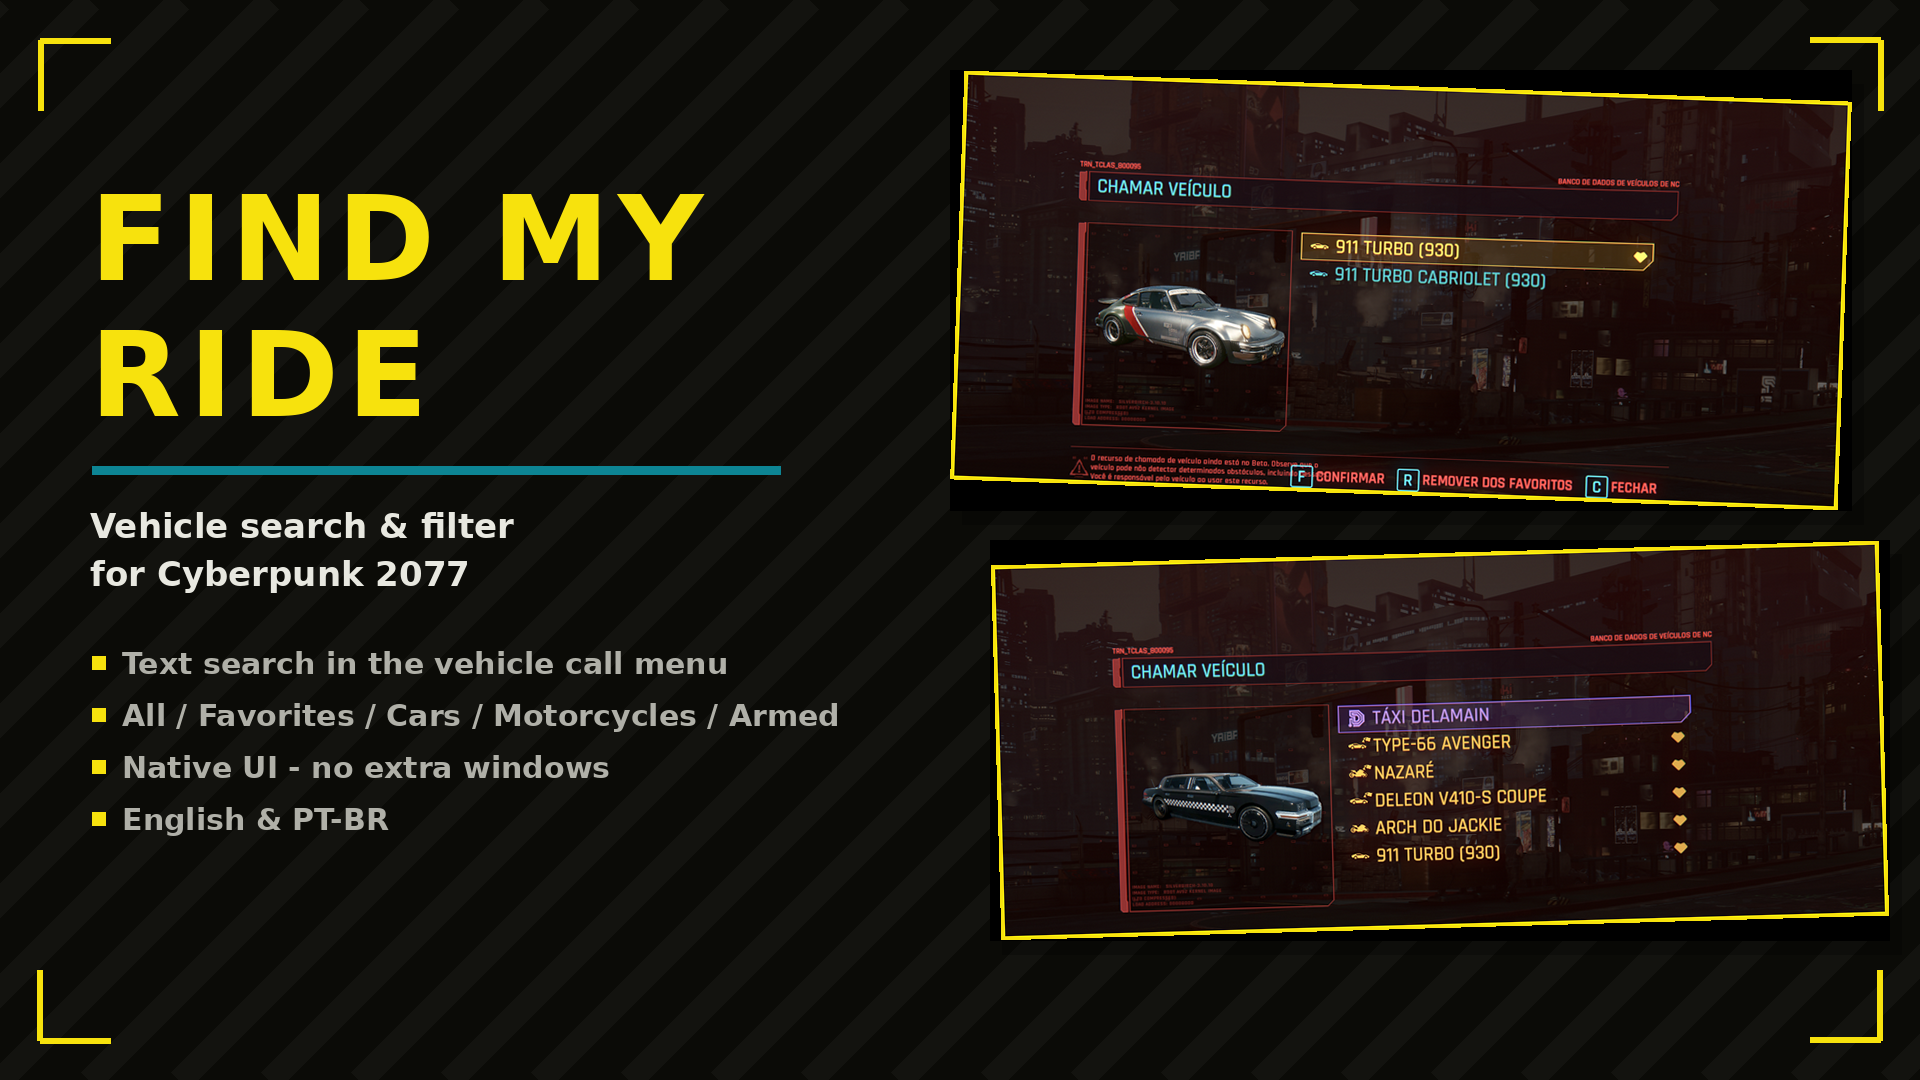
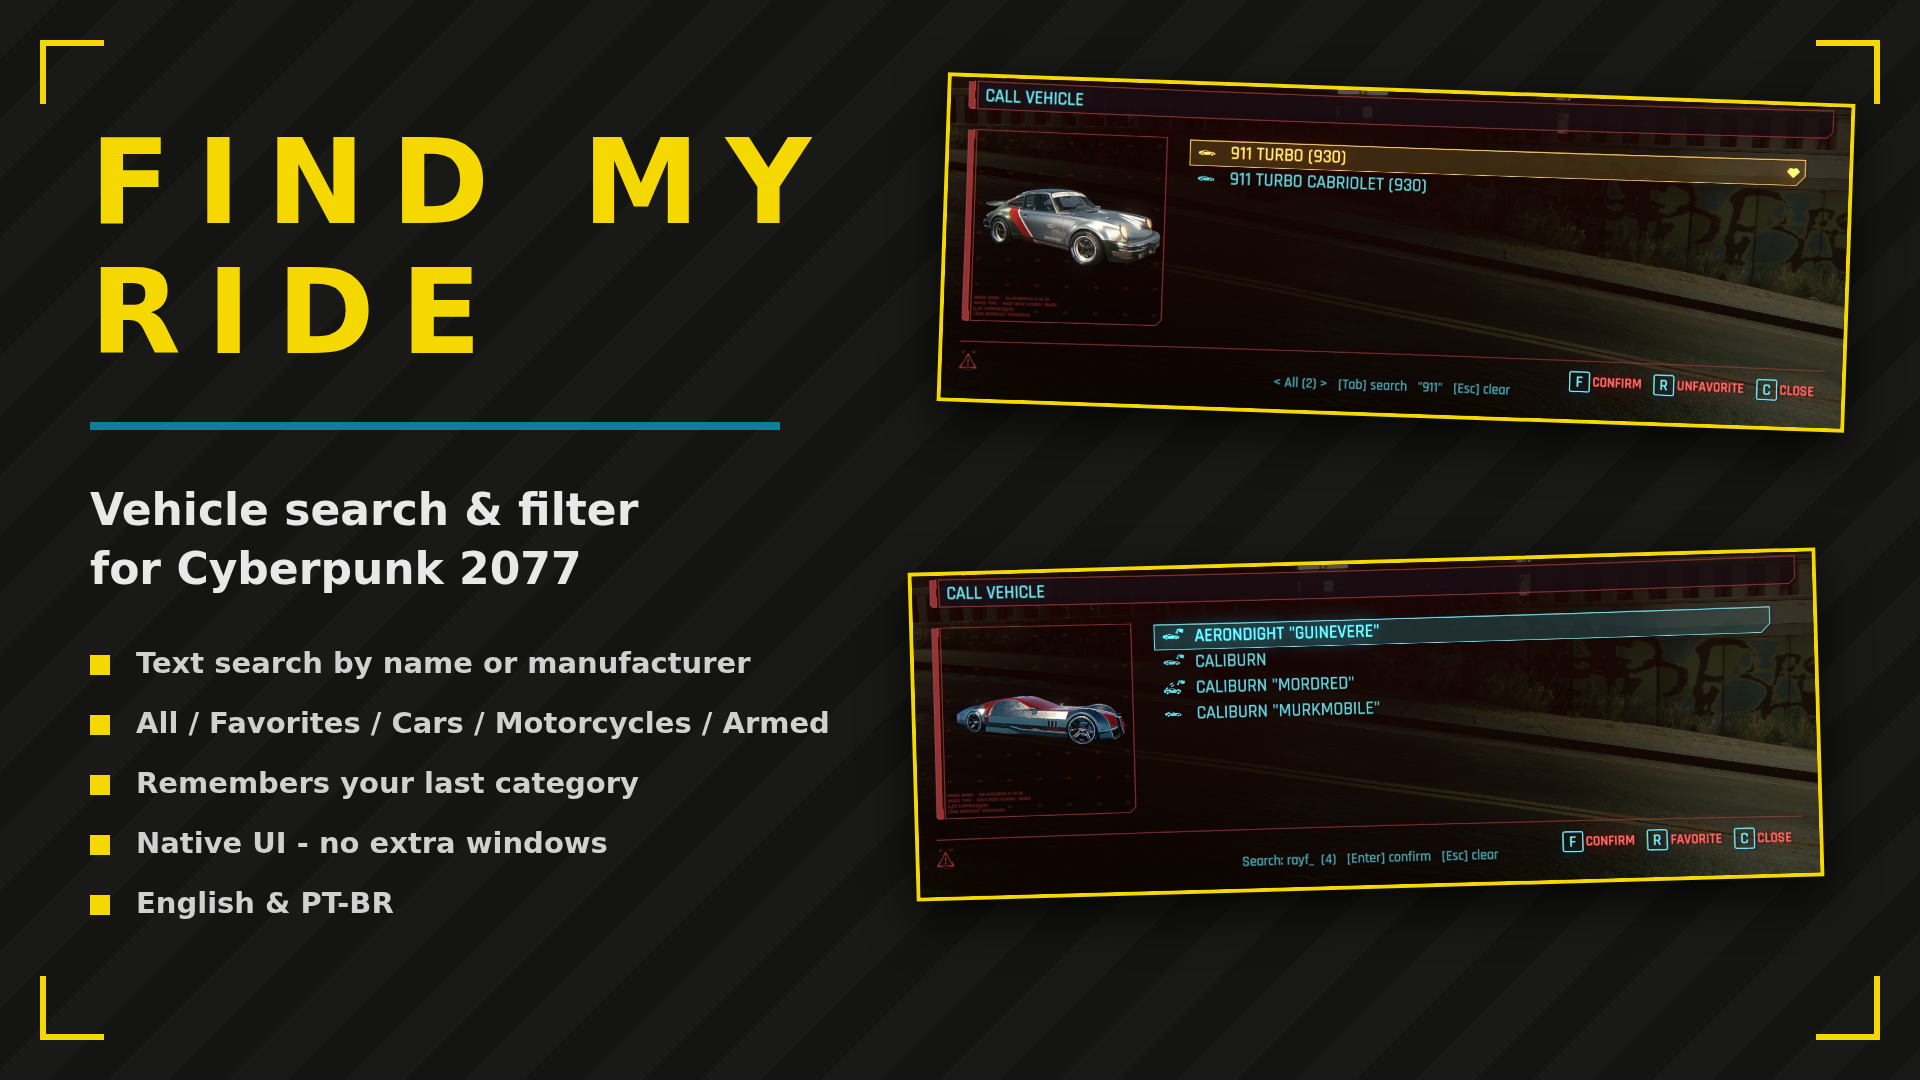
Update FindMyRide to 1.1.0
Manufacturer search, remembered category, hidden vanilla Beta
disclaimer. English screenshots and new cover.

diff --git a/README.md b/README.md
@@ -58,4 +58,4 @@ adjust to your install or pass `/p:GameDir=...`.
 
 If a mod helped you, consider [donating via PayPal](https://www.paypal.com/donate/?business=SR28XBBCYSPHE&no_recurring=0&item_name=Help+me+buy+a+coffee.&currency_code=USD).
 
-[![Donate](https://raw.githubusercontent.com/nventatech-tech/cctop/main/contents/images/donate-qr.png)](https://www.paypal.com/donate/?business=SR28XBBCYSPHE&no_recurring=0&item_name=Help+me+buy+a+coffee.&currency_code=USD)
+[![Donate](https://raw.githubusercontent.com/nventatech/cctop/main/contents/images/donate-qr.png)](https://www.paypal.com/donate/?business=SR28XBBCYSPHE&no_recurring=0&item_name=Help+me+buy+a+coffee.&currency_code=USD)

diff --git a/CyberPunk/FindMyRide/README.md b/CyberPunk/FindMyRide/README.md
@@ -6,8 +6,9 @@ Text search and category filters (All, Favorites, Cars, Motorcycles, Armed) insi
 
 ## Features
 
-- Text search in the vehicle call menu
-- All / Favorites / Cars / Motorcycles / Armed categories
+- Text search in the vehicle call menu, by name or manufacturer
+- All / Favorites / Cars / Motorcycles / Armed categories, last one remembered
+- Hides the vanilla "still in Beta" disclaimer
 - Native UI - no extra windows
 - English & PT-BR
 
